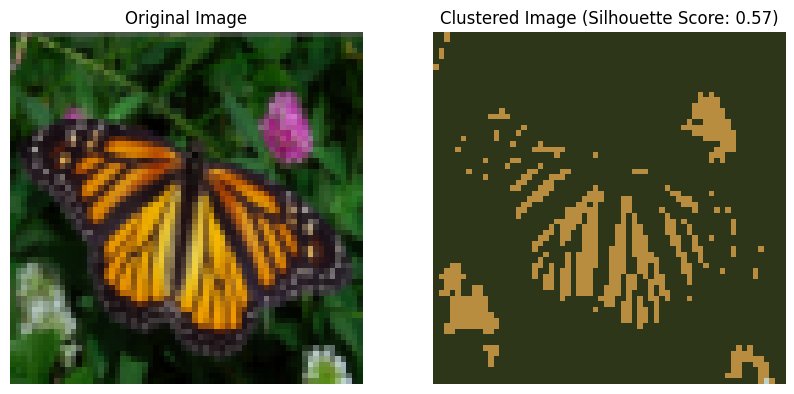
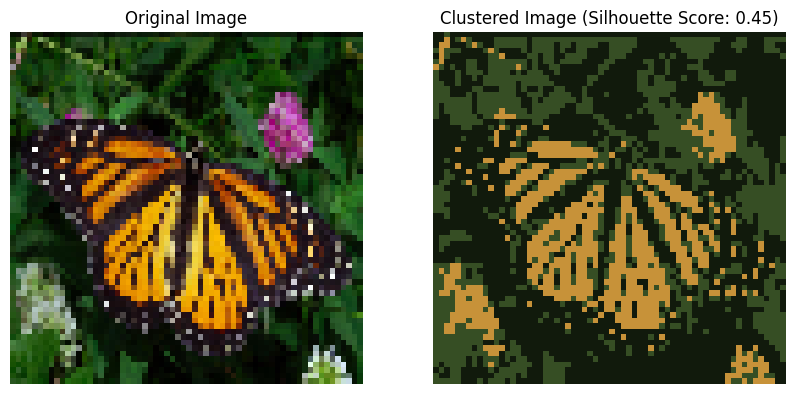
Add results

diff --git a/README.md b/README.md
@@ -57,6 +57,8 @@ The comparison of Silhouette Scores for both clustering techniques across two im
 
 You can view all the resulting images in results directory.
 
+![Ratio-cut](results/K-Means_image1_cluster6_64.png)
+![K-Means](results/K-Means_image2_cluster6_64.png)
 
 
 ## How to Use
